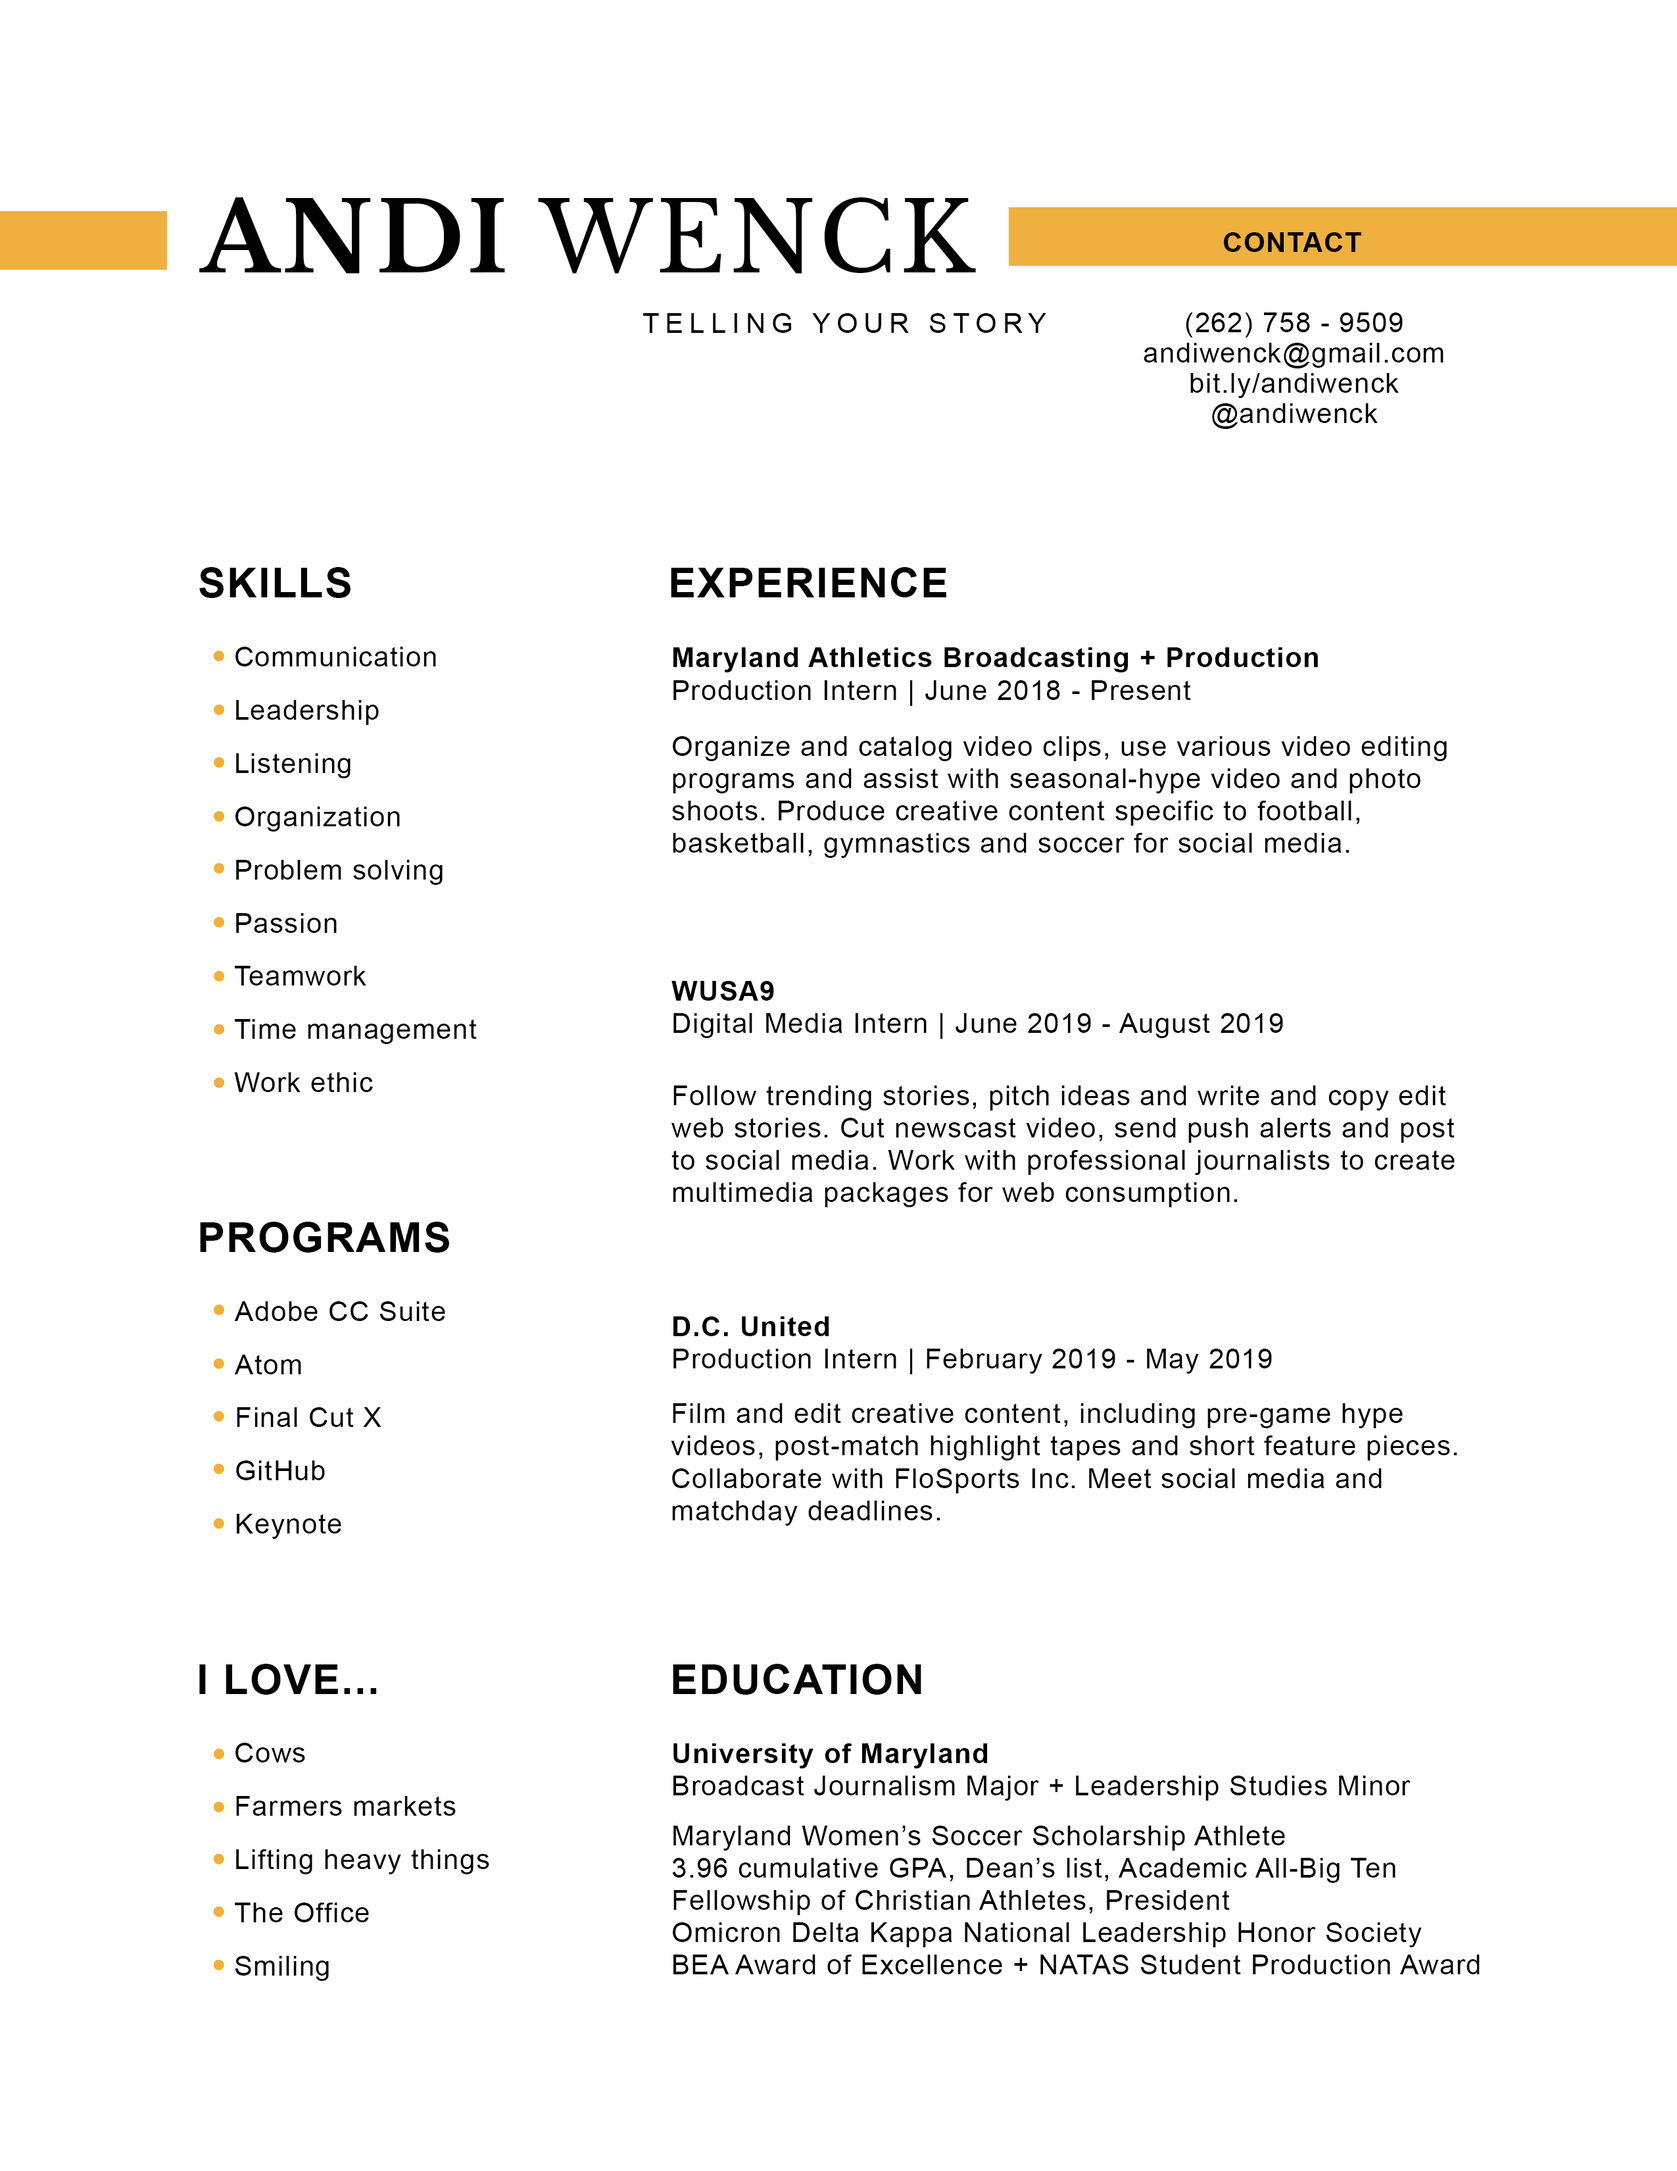
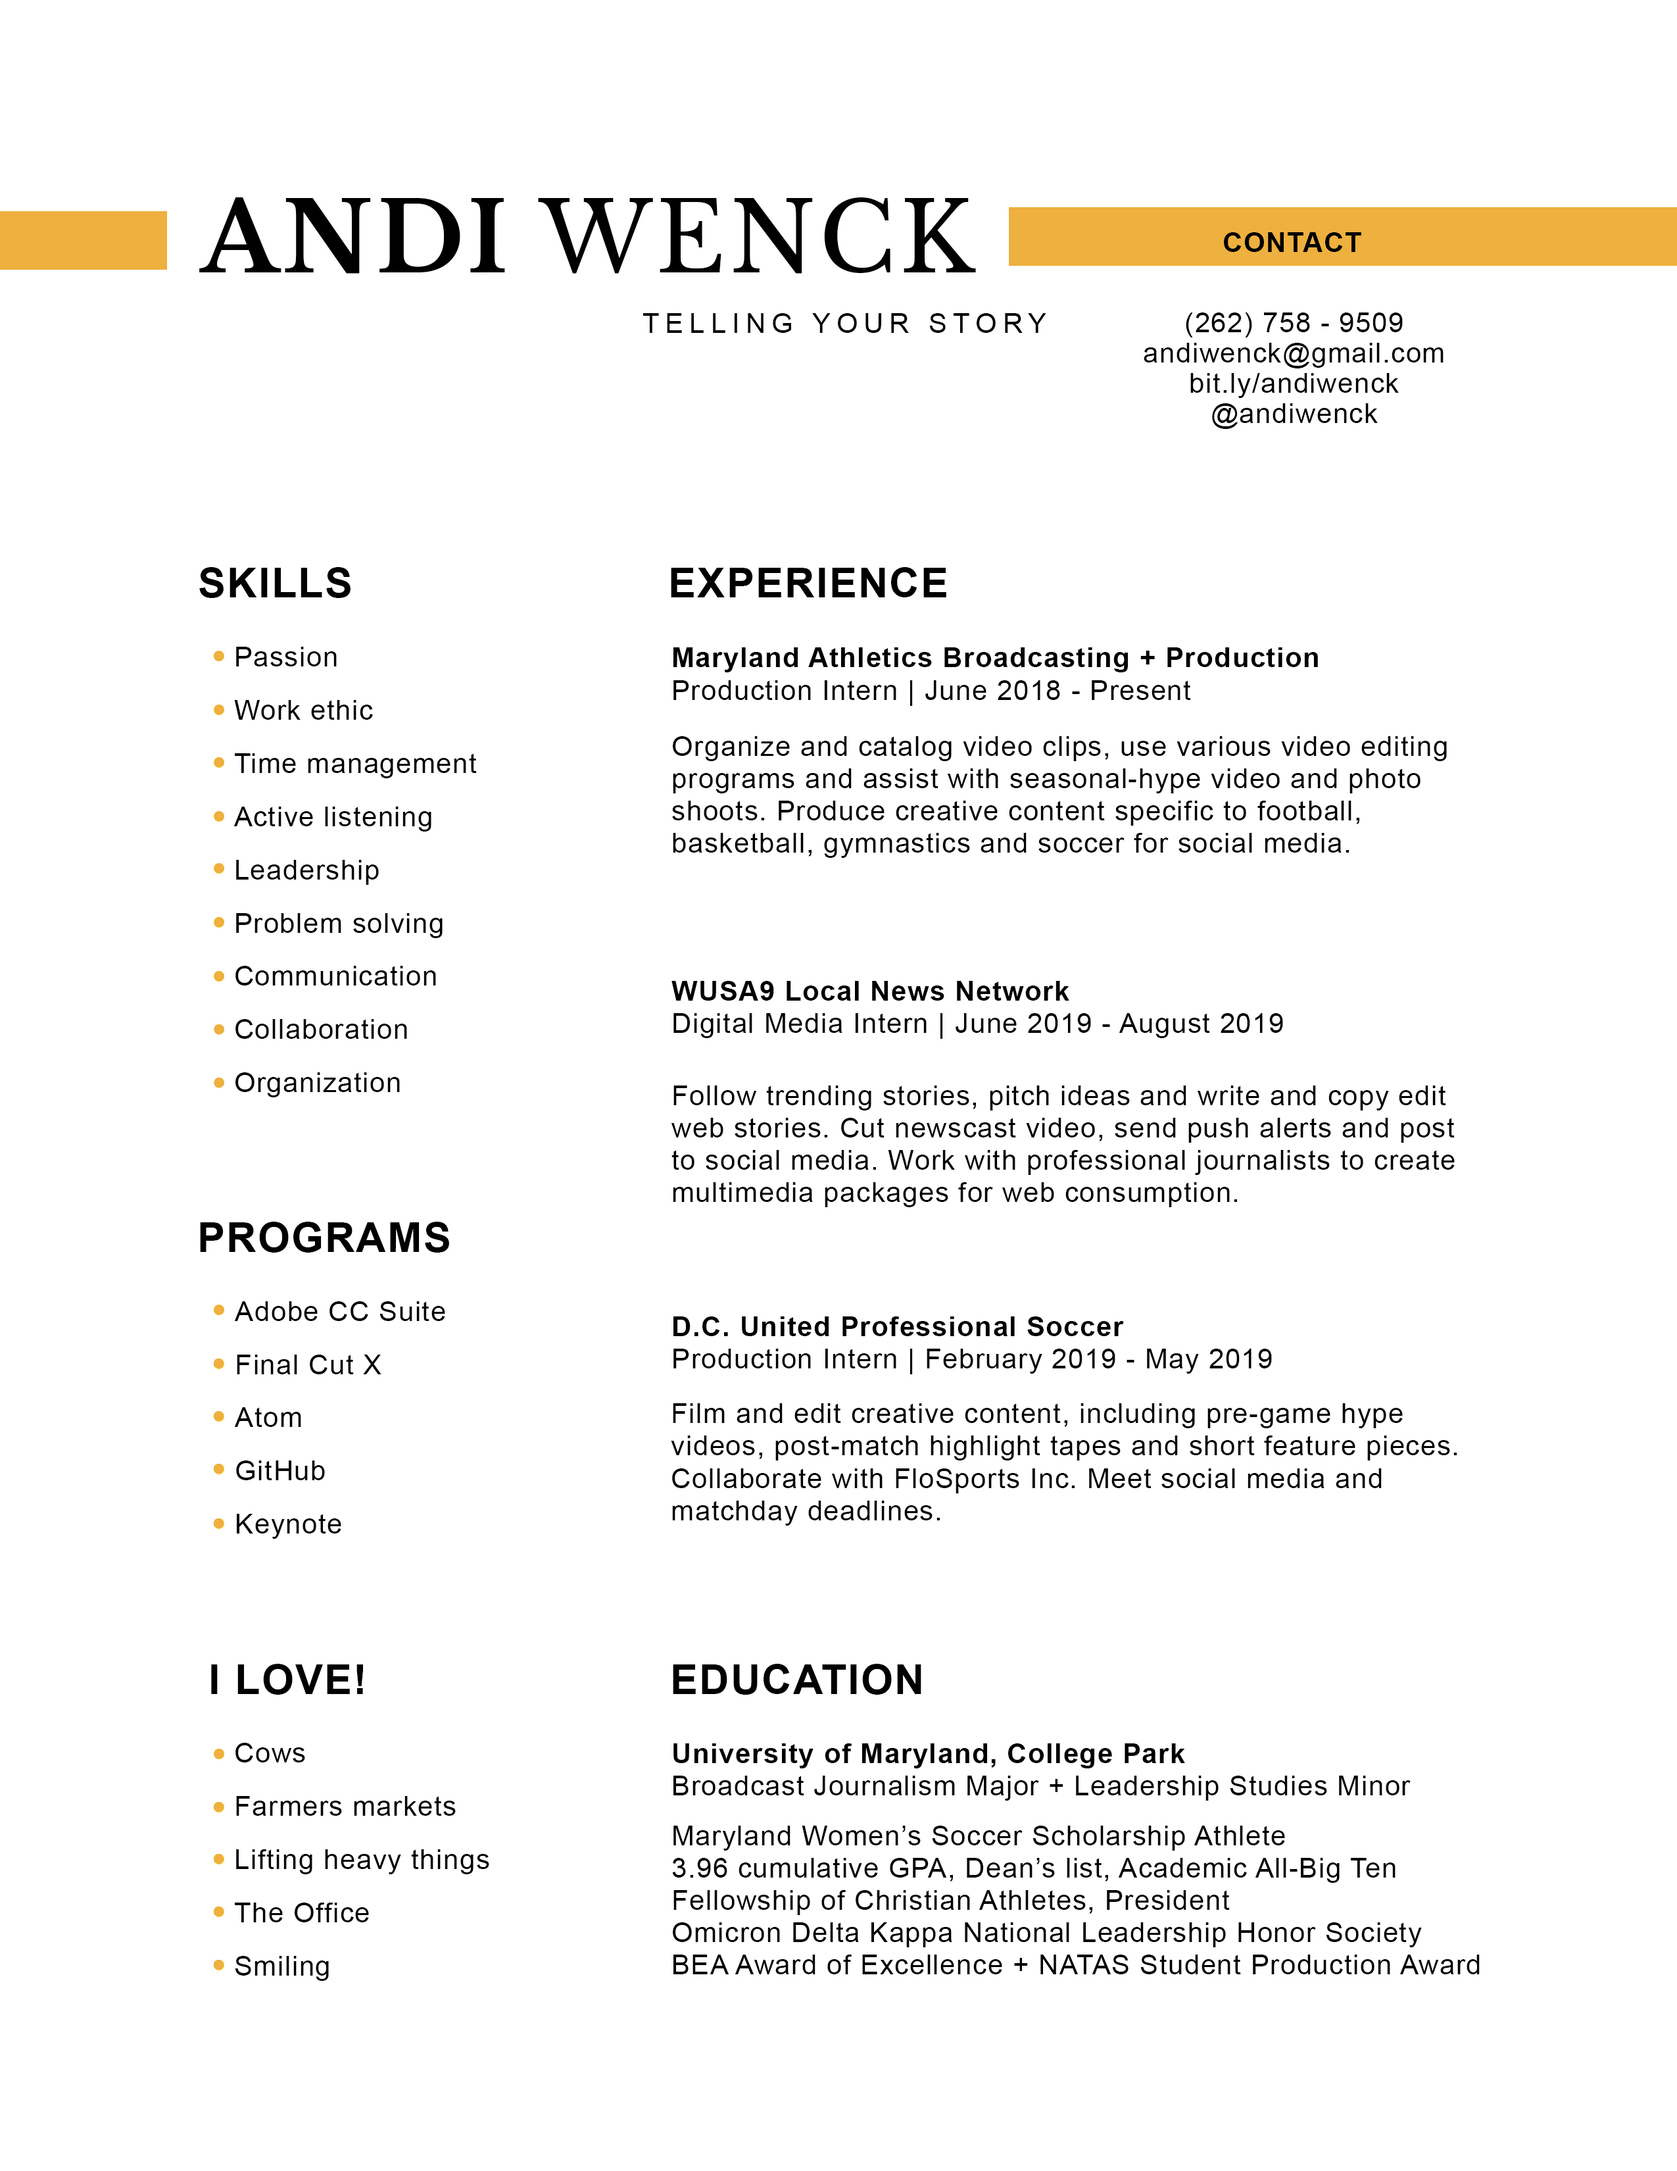
changes

diff --git a/resume_project/andi-wenck-resume.html b/resume_project/andi-wenck-resume.html
@@ -290,7 +290,7 @@
                         <div class="timeline__bullet"></div>
                         <div class="timeline__header">
                             <p class="timeline__timeframe">February 2019 - May 2019</p>
-                            <h3>D.C. United</h3>
+                            <h3>D.C. United Professional Soccer</h3>
                             <h5>Production Intern</h5>
                         </div>
                         <div class="timeline__desc">
@@ -345,7 +345,7 @@
                       <div class="timeline__bullet"></div>
                       <div class="timeline__header">
                           <p class="timeline__timeframe">June 2019 - August 2019</p>
-                          <h3>WUSA9</h3>
+                          <h3>WUSA9 Local News Network</h3>
                           <h5>Digital Media Editor Intern</h5>
                       </div>
                       <div class="timeline__desc">
